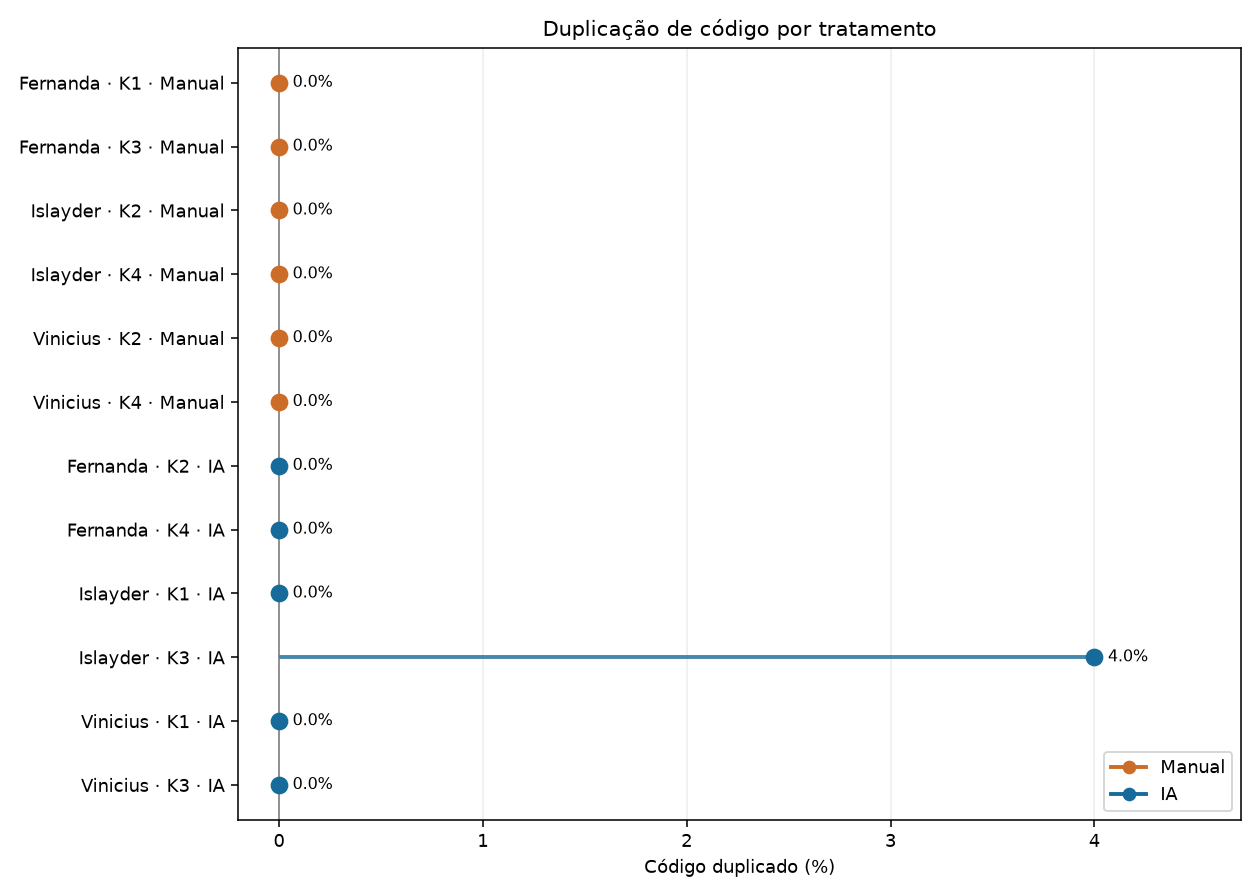
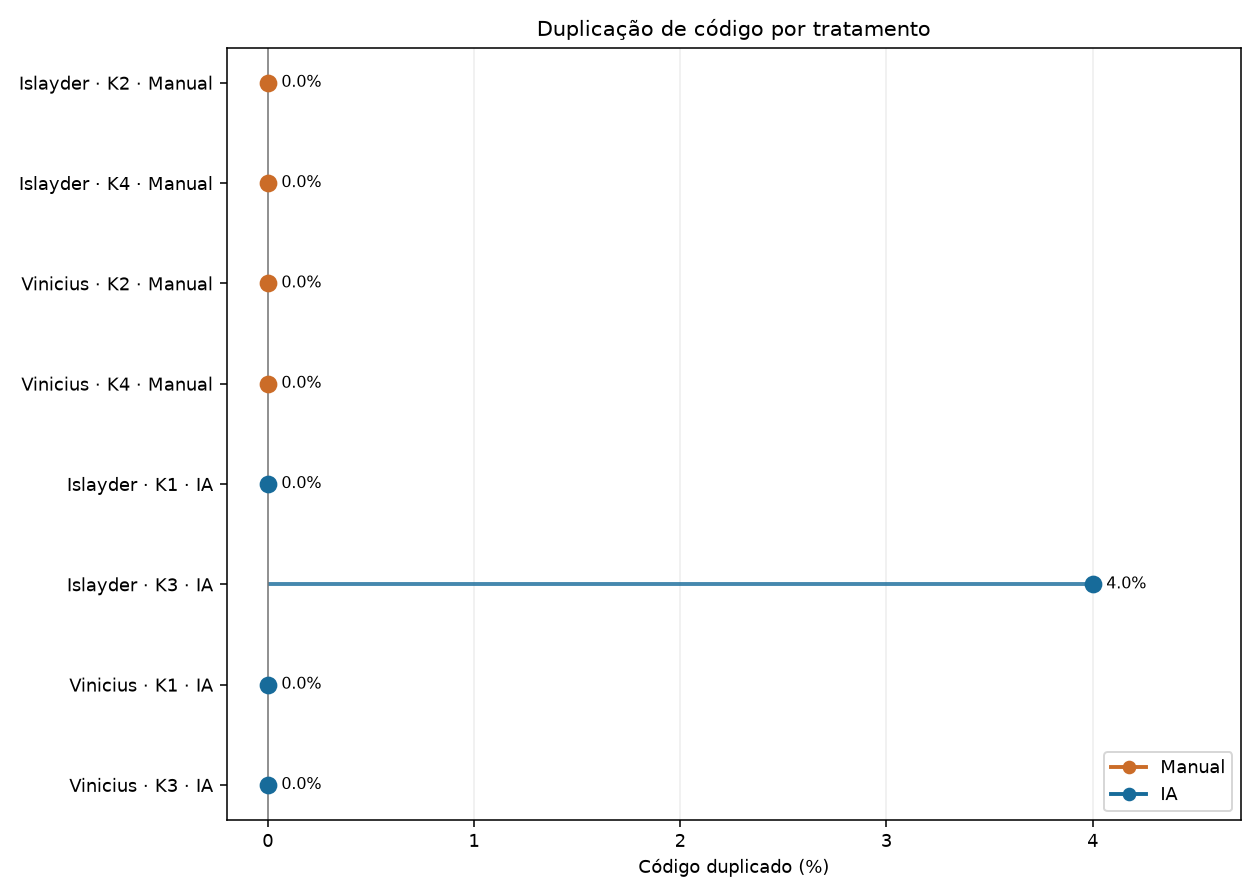
#35 implementacao e gerar dashboard final

Changed region(s): [[0.0, 0.0625, 0.8976, 0.9062], [0.4333, 0.0, 0.7429, 0.0625], [0.4952, 0.9375, 0.65, 1.0]]

diff --git a/lab02/dashboard/build_dashboard.py b/lab02/dashboard/build_dashboard.py
@@ -1,0 +1,184 @@
+"""Consolida RQ1, RQ2, RQ3 e inovação num único painel (Sprint 03 — Vinicius).
+
+Execute da raiz: python -m lab02.dashboard.build_dashboard
+
+Fontes:
+  - lab02/analysis/results/rq1_resumo.csv
+  - lab02/analysis/results/rq2_resumo.csv
+  - lab02/analysis/results/inovacao_resumo.csv
+  - lab02/analysis/results/rq3_detalhe.csv (recalculado aqui, filtrando
+    apenas source_kind == "observed" — o rq3_resumo.csv "grupo" gerado por
+    analyze_rq3.py inclui os 4 trials simulados do Islayder
+    (SIM-S02-I21/24/25/26, source_kind == "observed_simulated") como se
+    fossem dado oficial; este dashboard não usa esse resumo por esse
+    motivo, e recomputa a partir do detalhe, filtrando por proveniência.
+
+Saída: reports/figures/dashboard_final.png
+"""
+
+from __future__ import annotations
+
+import os
+import tempfile
+from pathlib import Path
+
+os.environ.setdefault("MPLCONFIGDIR", str(Path(tempfile.gettempdir()) / "lab02-s03-mpl-cache"))
+import matplotlib
+
+matplotlib.use("Agg")
+import matplotlib.pyplot as plt
+import pandas as pd
+
+from lab02.analysis.analyze_rq1_rq2 import COLORS, FIGURES_DIR, RESULTS_DIR
+
+OUTPUT_PATH = FIGURES_DIR / "dashboard_final.png"
+
+RQ1_CSV = RESULTS_DIR / "rq1_resumo.csv"
+RQ2_CSV = RESULTS_DIR / "rq2_resumo.csv"
+INOVACAO_CSV = RESULTS_DIR / "inovacao_resumo.csv"
+RQ3_DETAIL_CSV = RESULTS_DIR / "rq3_detalhe.csv"
+
+TREATMENTS = ("IA", "Manual")
+
+
+def load_tables() -> dict[str, pd.DataFrame]:
+    rq1 = pd.read_csv(RQ1_CSV)
+    rq2 = pd.read_csv(RQ2_CSV)
+    inovacao = pd.read_csv(INOVACAO_CSV)
+    rq3_detail = pd.read_csv(RQ3_DETAIL_CSV)
+    return {"rq1": rq1, "rq2": rq2, "inovacao": inovacao, "rq3_detail": rq3_detail}
+
+
+def summarize_rq3_observed(rq3_detail: pd.DataFrame) -> pd.DataFrame:
+    """Recalcula LOC/CC/duplicação usando apenas trials source_kind=='observed'.
+
+    O rq3_resumo.csv produzido por analyze_rq3.py mistura os trials reais com
+    os quatro cenários sintéticos do Islayder (observed_simulated); esta
+    função ignora esse arquivo e recomputa a partir do detalhe já filtrado.
+    """
+    observed = rq3_detail.loc[rq3_detail.source_kind == "observed"].copy()
+    rows = []
+    for treatment in TREATMENTS:
+        group = observed.loc[observed.tratamento == treatment]
+        for column, label in (
+            ("loc", "LOC lógico (lloc)"),
+            ("avg_cyclomatic_complexity", "Complexidade ciclomática média"),
+            ("duplication_percentage", "Duplicação (%)"),
+        ):
+            values = group[column].dropna()
+            rows.append(
+                {
+                    "tratamento": treatment,
+                    "metrica": column,
+                    "unidade": label,
+                    "n": len(values),
+                    "mediana": values.median() if not values.empty else None,
+                }
+            )
+    return pd.DataFrame(rows), observed
+
+
+def data_composition_note(rq3_detail: pd.DataFrame) -> str:
+    counts = rq3_detail.source_kind.value_counts().to_dict()
+    participantes_observed = sorted(
+        rq3_detail.loc[rq3_detail.source_kind == "observed", "participante"].unique()
+    )
+    return (
+        f"Composição dos dados (RQ3, n={len(rq3_detail)} trials no CSV bruto): "
+        f"observed={counts.get('observed', 0)} · "
+        f"observed_simulated={counts.get('observed_simulated', 0)} · "
+        f"agent_delegated_codex_work={counts.get('agent_delegated_codex_work', 0)}.  "
+        f"Este dashboard usa somente source_kind='observed' "
+        f"(participante(s): {', '.join(participantes_observed) or 'nenhum'}). "
+        "Islayder (SIM-*) é cenário sintético declarado; Fernanda ainda sem "
+        "snapshot/execução humana completa — pendente para as próximas versões."
+    )
+
+
+def bar_with_labels(ax, values: dict[str, float], ylabel: str, title: str, fmt: str = "{:.2f}") -> None:
+    treatments = list(values.keys())
+    heights = list(values.values())
+    colors = [COLORS[t] for t in treatments]
+    bars = ax.bar(treatments, heights, color=colors, width=0.55)
+    for bar, height in zip(bars, heights):
+        ax.annotate(
+            fmt.format(height) if height is not None else "n/a",
+            (bar.get_x() + bar.get_width() / 2, height if height is not None else 0),
+            xytext=(0, 4),
+            textcoords="offset points",
+            ha="center",
+            fontsize=9,
+        )
+    ax.set_ylabel(ylabel)
+    ax.set_title(title, fontsize=10)
+    ax.grid(axis="y", alpha=0.25)
+
+
+def build_dashboard(tables: dict[str, pd.DataFrame]) -> None:
+    plt.rcParams.update({"font.size": 9, "figure.dpi": 150})
+    rq1, rq2, inovacao = tables["rq1"], tables["rq2"], tables["inovacao"]
+    rq3_summary, rq3_observed = summarize_rq3_observed(tables["rq3_detail"])
+
+    fig, axes = plt.subplots(2, 3, figsize=(15, 9))
+
+    # 1. Tempo (RQ1) — mediana em minutos
+    tempo = {row.tratamento: row.mediana_min for row in rq1.itertuples()}
+    bar_with_labels(axes[0, 0], tempo, "Minutos (mediana)", "RQ1 — Tempo até green", fmt="{:.2f} min")
+
+    # 2. Taxa de sucesso final (RQ2)
+    taxa = {row.tratamento: row.taxa_final_mediana_pct for row in rq2.itertuples()}
+    bar_with_labels(axes[0, 1], taxa, "Testes passando (%)", "RQ2 — Taxa final de sucesso", fmt="{:.1f}%")
+    axes[0, 1].set_ylim(0, 110)
+
+    # 3. Ciclos até green (inovação)
+    ciclos = {row.tratamento: row.ciclos_mediana for row in inovacao.itertuples()}
+    bar_with_labels(axes[0, 2], ciclos, "Ciclos (mediana)", "Inovação — Ciclos até green", fmt="{:.1f}")
+
+    # 4. LOC (RQ3, observed)
+    loc = {
+        row.tratamento: row.mediana
+        for row in rq3_summary.loc[rq3_summary.metrica == "loc"].itertuples()
+    }
+    bar_with_labels(axes[1, 0], loc, "LOC (mediana)", "RQ3 — LOC lógico", fmt="{:.1f}")
+
+    # 5. Complexidade ciclomática (RQ3, observed)
+    cc = {
+        row.tratamento: row.mediana
+        for row in rq3_summary.loc[rq3_summary.metrica == "avg_cyclomatic_complexity"].itertuples()
+    }
+    bar_with_labels(axes[1, 1], cc, "CC média (mediana)", "RQ3 — Complexidade ciclomática", fmt="{:.2f}")
+
+    # 6. Duplicação (RQ3, observed)
+    dup = {
+        row.tratamento: row.mediana
+        for row in rq3_summary.loc[rq3_summary.metrica == "duplication_percentage"].itertuples()
+    }
+    bar_with_labels(axes[1, 2], dup, "Duplicação % (mediana)", "RQ3 — Duplicação de código", fmt="{:.1f}%")
+    axes[1, 2].set_ylim(0, max(1.0, max(v for v in dup.values() if v is not None) * 1.3))
+
+    n_observed = int((tables["rq3_detail"].source_kind == "observed").sum())
+    participantes = sorted(
+        tables["rq3_detail"].loc[tables["rq3_detail"].source_kind == "observed", "participante"].unique()
+    )
+    fig.suptitle(
+        f"Lab02 — Dashboard consolidado (Sprint 03)\n"
+        f"n={n_observed} trials observados · participante(s): {', '.join(participantes)}",
+        fontsize=13,
+        fontweight="bold",
+    )
+    fig.text(0.5, 0.01, data_composition_note(tables["rq3_detail"]), ha="center", fontsize=7.5, wrap=True, color="#444444")
+    fig.tight_layout(rect=(0, 0.045, 1, 0.94))
+    FIGURES_DIR.mkdir(parents=True, exist_ok=True)
+    fig.savefig(OUTPUT_PATH)
+    plt.close(fig)
+
+
+def main() -> None:
+    tables = load_tables()
+    build_dashboard(tables)
+    print(f"Dashboard salvo em: {OUTPUT_PATH}")
+    print(data_composition_note(tables["rq3_detail"]))
+
+
+if __name__ == "__main__":
+    main()

diff --git a/lab02/analysis/analyze_rq1_rq2.py b/lab02/analysis/analyze_rq1_rq2.py
@@ -46,6 +46,7 @@ DOCUMENTED_EXCLUSIONS = {
     "31c7f16ce79c478ab8f81cd8628e6e3c": "ensaio do instrumento, sem tempo humano válido (Fernanda)",
     "bd057b8dcaef41a6a9503c053b9d57f3": "ensaio do instrumento, sem tempo humano válido (Fernanda)",
     "4dfbe8c44c964a65ae003d35d6a60754": "ensaio do instrumento, sem tempo humano válido (Fernanda)",
+    "ba0cb83a55764b3389f7da94946c9230": "PENDENTE DE CONFIRMAÇÃO — source_kind=agent_delegated_codex_work e snapshot nunca commitado; excluído provisoriamente por Vinicius sem validação da Fernanda",
 }
 TRIAL_COLUMNS = {
     "trial_id", "issue", "participante", "kata", "tratamento", "tempo_segundos",
@@ -126,6 +127,7 @@ def load_and_audit() -> tuple[pd.DataFrame, pd.DataFrame, pd.DataFrame]:
         expected_treatment = (FERNANDA_ALLOCATION if trial.participante == "Fernanda"
                               else ISLAYDER_ALLOCATION)[trial.kata]
         require(trial.tratamento == expected_treatment, f"{tid}: tratamento fora da matriz")
+        snapshot_missing = False
         if source in {"observed", "agent_delegated_codex_work"}:
             require(trial.iniciado_em != "" and trial.finalizado_em != "",
                     f"{tid}: timestamps de execução ausentes")
@@ -136,11 +138,13 @@ def load_and_audit() -> tuple[pd.DataFrame, pd.DataFrame, pd.DataFrame]:
                     f"{tid}: trial_id observado inválido")
             require(trial.status in {"green", "time-box", "interrupted", "error"},
                     f"{tid}: status inválido")
+            require(trial.codigo_path != "", f"{tid}: codigo_path vazio")
             require(Path(trial.codigo_path).as_posix()
                     == f"lab02/trials/results/solutions/{tid}/solucao.py",
                     f"{tid}: snapshot não corresponde ao trial_id")
-            require(trial.codigo_path != "" and (BASE_DIR / trial.codigo_path).is_file(),
-                    f"{tid}: snapshot ausente")
+            # Snapshot ausente NÃO derruba a auditoria; o trial é apenas
+            # classificado como excluído na decisão final (abaixo).
+            snapshot_missing = not (BASE_DIR / trial.codigo_path).is_file()
             require(trial.issue == ISSUES[trial.participante][kata_num]
                     or tid in DOCUMENTED_EXCLUSIONS,
                     f"{tid}: Issue não corresponde ao participante/kata")
@@ -181,6 +185,8 @@ def load_and_audit() -> tuple[pd.DataFrame, pd.DataFrame, pd.DataFrame]:
             decision, reason = "excluído", "cenário simulado; sem execução humana"
         elif tid in DOCUMENTED_EXCLUSIONS:
             decision, reason = "excluído", DOCUMENTED_EXCLUSIONS[tid]
+        elif snapshot_missing:
+            decision, reason = "excluído", "snapshot ausente em lab02/trials/results/solutions/"
         elif trial.status in {"interrupted", "error"}:
             decision, reason = "excluído", f"status {trial.status}; trial incompleto"
         elif source == "agent_delegated_codex_work":

diff --git a/lab02/dashboard/__init__.py b/lab02/dashboard/__init__.py
@@ -1,0 +1,1 @@
+"Dashboard Sprint 3"
